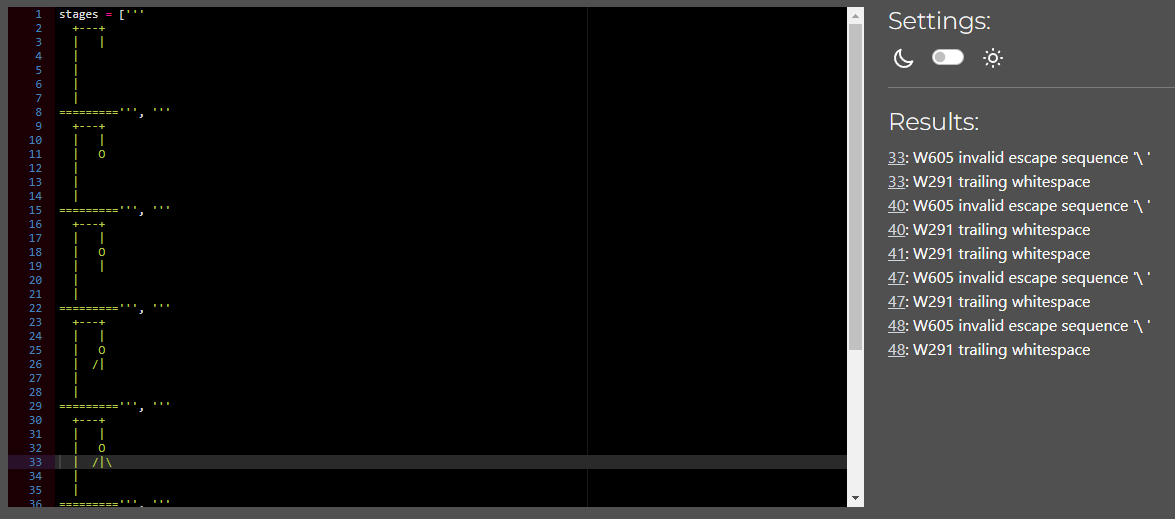
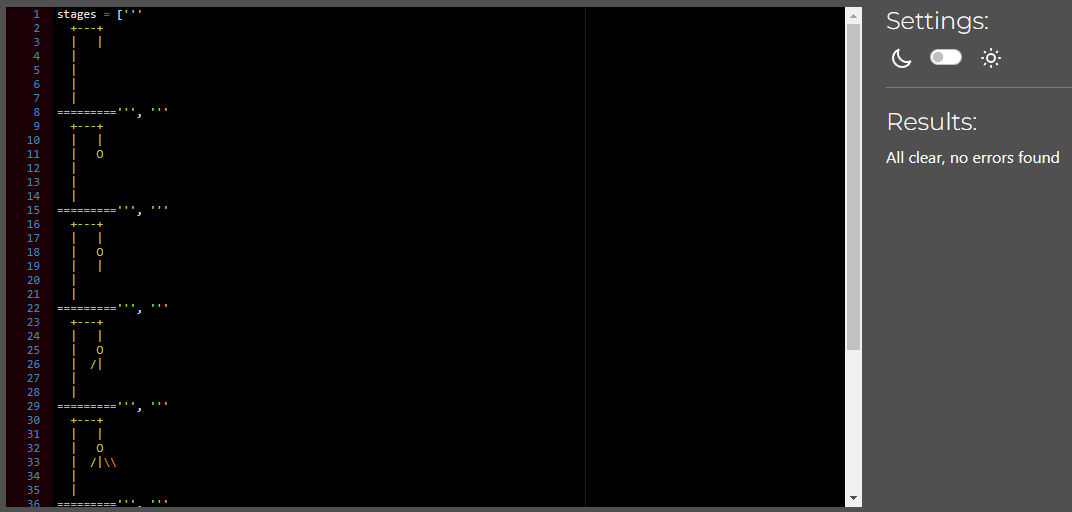
Fix: Linter testing errors on hangman_stages.py

Changed region(s): [[0.0, 0.0, 1.0, 1.0]]

diff --git a/hangman_stage.py b/hangman_stage.py
@@ -30,21 +30,21 @@ stages = ['''
   +---+
   |   |
   |   O
-  |  /|\ 
+  |  /|\\
   |
   |
 =========''', '''
   +---+
   |   |
   |   O
-  |  /|\ 
-  |  / 
+  |  /|\\
+  |  /
   |
 =========''', '''
   +---+
   |   |
   |   O
-  |  /|\ 
-  |  / \ 
+  |  /|\\
+  |  / \\
   |
 =========''']
